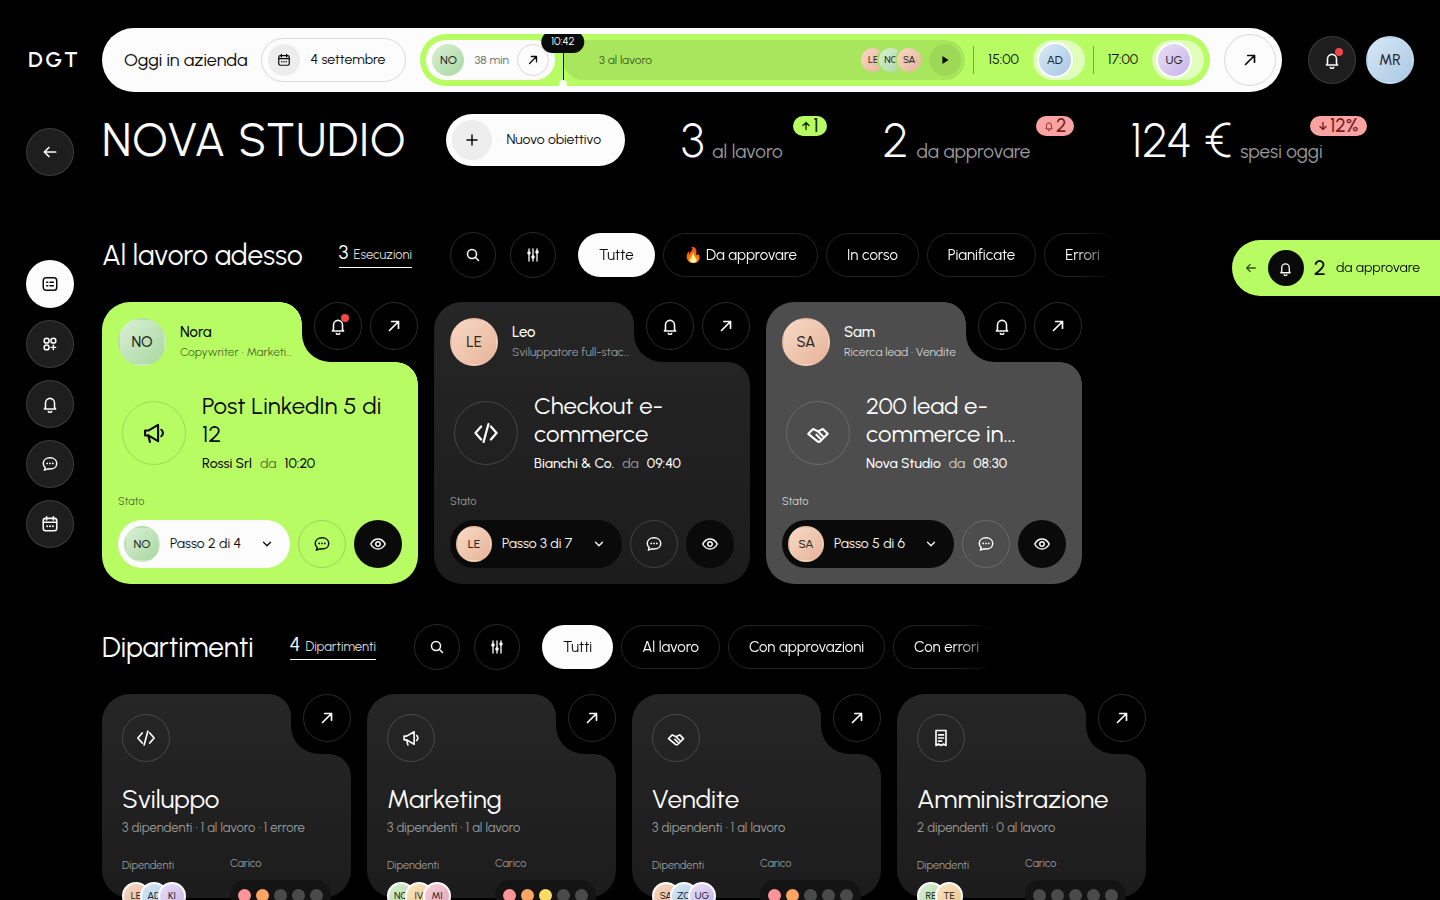
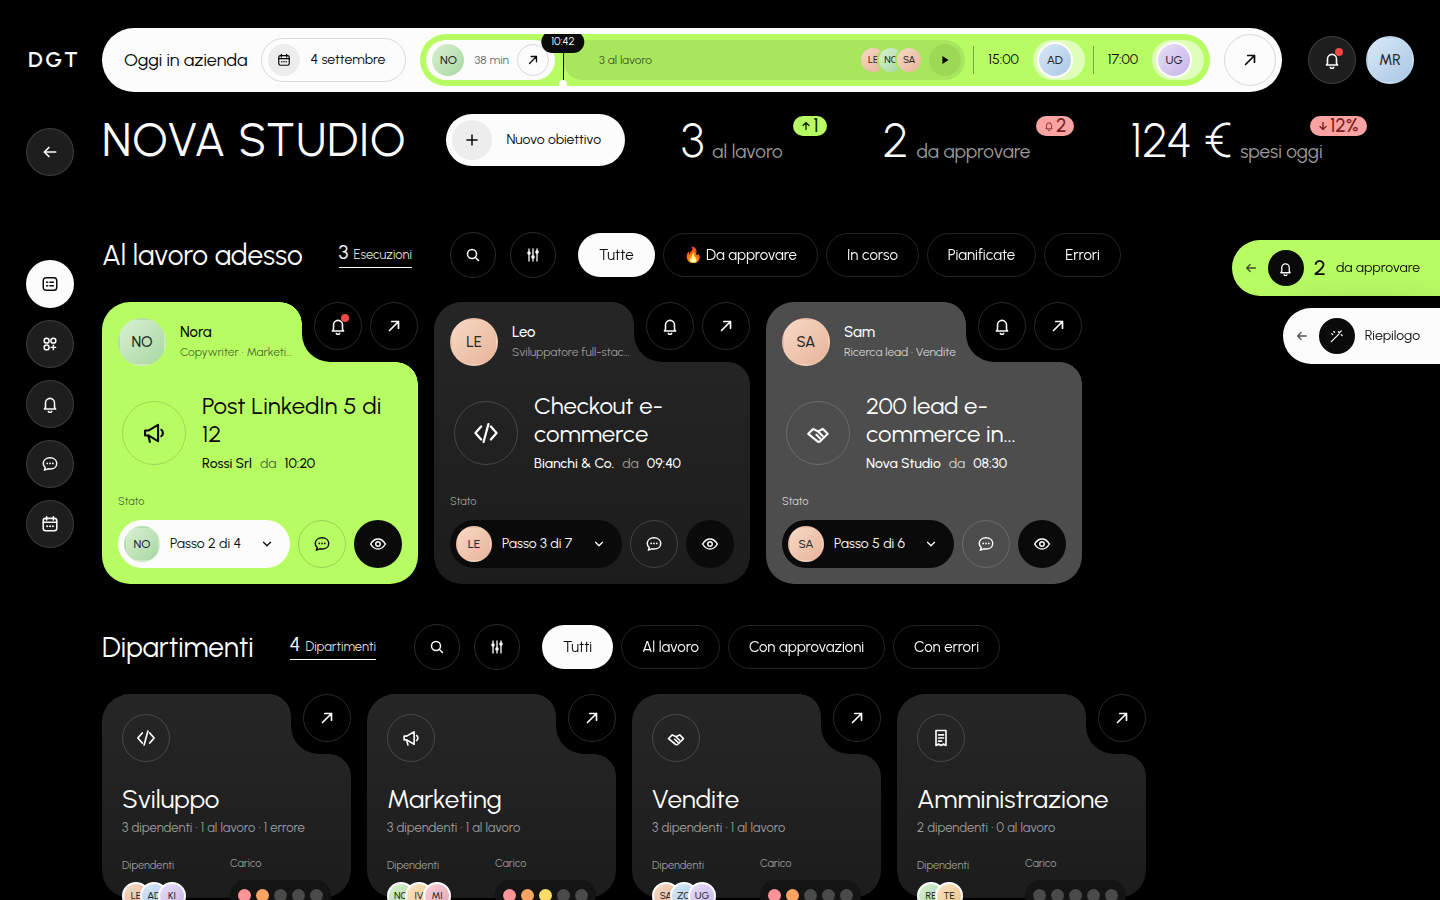
Direzione A: Riepilogo separato come unica modalità
Scelta dell'utente: il Riepilogo ha la sua pillola bianca e la sua tendina, la
tendina Da approvare mostra la richiesta corrente e la coda. Tolti l'opzione
«insieme» e il selettore di prova; screenshot rinominati e ricatturati; documenti
aggiornati (DIREZIONI.md, SYSTEM-DESIGN.md, PROSSIMA-SESSIONE.md, README).

Claude-Session: https://claude.ai/code/session_01LQmfWTwFqjQ7WoqY35Yzt1

Changed region(s): [[0.875, 0.3422, 1.0, 0.4044]]

diff --git a/schermate/direzioni/direzione-a.js b/schermate/direzioni/direzione-a.js
@@ -6,15 +6,16 @@
    Versione 2 (2026-09-04): titolo con la O normale, logo = DGT, tendina del
    titolare flottante a tre stati (chiusa / aperta / estesa), home a tutta
    larghezza, pagina Richieste.
-   Versione 3 (stessa data): opzione «Riepilogo separato» (due pillole e due
-   tendine, da confrontare con «insieme»); pagina Richieste completa: filtri
-   per stato, tipo, periodo, cliente e dipendente, storico per giorno,
-   approva/rifiuta anche in blocco, regole di approvazione.
+   Versione 3 (stessa data): Riepilogo separato (scelta dell'utente): due
+   pillole e due tendine, «Da approvare» con la coda e «Riepilogo di oggi»;
+   pagina Richieste completa: filtri per stato, tipo, periodo, cliente e
+   dipendente, storico per giorno, approva/rifiuta anche in blocco, regole di
+   approvazione.
 
    API: DIREZIONE_A.render(m, opz) → HTML; DIREZIONE_A.monta(radice, m, opz)
    disegna e collega i clic. opz = { pagina: 'home'|'richieste',
    tendina: 'chiusa'|'aperta'|'estesa', richiesta: indice,
-   riepilogo: 'insieme'|'separato', pannello: 'richieste'|'riepilogo' }.
+   pannello: 'richieste'|'riepilogo' }.
    ===================================================================== */
 window.DIREZIONE_A = (function () {
   const { ic, esc, prefissa, iconaDip } = window.DGT_UI;
@@ -370,11 +371,10 @@ window.DIREZIONE_A = (function () {
   }
 
   /* ---------- tendina del titolare ---------- */
-  function riepilogo(m, conTitolo, conDiario) {
+  function riepilogo(m) {
     const oggi = m.richieste.filter(r => r.giorno === 0 && r.stato === 'approvata').length;
     const ultime = m.diario.slice(-3).reverse();
-    return `${conTitolo ? `<div class="sub"><span class="rb black">${ic('i-wand')}</span><h5>Riepilogo di oggi</h5><span class="rb olight">${ic('i-ne')}</span></div>` : ''}
-      <div class="dcard"><div class="nt"><span class="rb sm">${ic('i-down')}</span></div><h5>Consegne:</h5>
+    return `<div class="dcard"><div class="nt"><span class="rb sm">${ic('i-down')}</span></div><h5>Consegne:</h5>
         <div class="thumbs">
           <div class="thumb"><div class="pg"><i class="h"></i><i class="w1"></i><i class="w2"></i><i class="b"></i><i class="w3"></i><i class="w1"></i><i class="w4"></i><i class="b"></i><i class="w2"></i></div><span class="lb">Post 4 di 12</span></div>
           <div class="thumb"><div class="pg"><i class="h"></i><i class="b"></i><i class="w1"></i><i class="w3"></i><i class="w2"></i><i class="b"></i><i class="w1"></i><i class="w4"></i></div><span class="lb">Piano ottobre</span></div>
@@ -383,14 +383,13 @@ window.DIREZIONE_A = (function () {
         <div class="kv"><span>Spesa di oggi</span><b>${m.costoOggi} €</b></div>
       </div>
       <div class="dcard"><div class="nt"><span class="rb sm">${ic('i-pen')}</span></div><h5>Obiettivo del mese:</h5><p class="goal">${m.azienda.obiettivoMese}</p></div>
-      ${conDiario ? `<div class="dcard"><div class="nt"><span class="rb sm">${ic('i-ne')}</span></div><h5>Ultime voci del diario:</h5><div style="margin-top:10px">${ultime.map(x => `<div class="drow"><span>${esc(x.ora)}</span><div><b>${esc(m.byId[x.chi].nome)}</b> ${esc(x.testo)}</div></div>`).join('')}</div></div>` : ''}`;
+      <div class="dcard"><div class="nt"><span class="rb sm">${ic('i-ne')}</span></div><h5>Ultime voci del diario:</h5><div style="margin-top:10px">${ultime.map(x => `<div class="drow"><span>${esc(x.ora)}</span><div><b>${esc(m.byId[x.chi].nome)}</b> ${esc(x.testo)}</div></div>`).join('')}</div></div>`;
   }
   const pager = (m, idx, n) => `<span class="pager"><span class="rb olight" data-az="prec">${ic('i-left')}</span>${idx + 1} di ${n}<span class="rb olight" data-az="succ">${ic('i-right')}</span></span>`;
   function tendinaChiusa(m, opz) {
     const n = m.richiesteDi('attesa').length;
-    const pr = `<div class="a-mini" data-az="apri" data-pannello="richieste" role="button" aria-label="Apri le richieste da approvare">${ic('i-left', 'ch')}<span class="rb">${ic('i-bell')}</span><b>${n}</b><span>da approvare</span></div>`;
-    if (opz.riepilogo !== 'separato') return pr;
-    return pr + `<div class="a-mini rie" data-az="apri" data-pannello="riepilogo" role="button" aria-label="Apri il riepilogo">${ic('i-left', 'ch')}<span class="rb">${ic('i-wand')}</span><span>Riepilogo</span></div>`;
+    return `<div class="a-mini" data-az="apri" data-pannello="richieste" role="button" aria-label="Apri le richieste da approvare">${ic('i-left', 'ch')}<span class="rb">${ic('i-bell')}</span><b>${n}</b><span>da approvare</span></div>`
+      + `<div class="a-mini rie" data-az="apri" data-pannello="riepilogo" role="button" aria-label="Apri il riepilogo">${ic('i-left', 'ch')}<span class="rb">${ic('i-wand')}</span><span>Riepilogo</span></div>`;
   }
   function cardRichiestaCorrente(m, r, idx, n) {
     const chi = m.byId[r.chi];
@@ -405,20 +404,19 @@ window.DIREZIONE_A = (function () {
     const att = inAttesa(m);
     const idx = Math.min(opz.richiesta || 0, Math.max(0, att.length - 1));
     const r = att[idx];
-    const sep = opz.riepilogo === 'separato';
-    if (sep && opz.pannello === 'riepilogo') {
+    if (opz.pannello === 'riepilogo') {
       return `<div class="a-tend aperta" role="dialog" aria-label="Riepilogo di oggi">
         <div class="th"><span class="rb black">${ic('i-wand')}</span><h4>Riepilogo di oggi</h4><span class="rb olight sm" data-az="chiudi" title="Chiudi">${ic('i-right')}</span></div>
-        <div class="tb">${riepilogo(m, false, true)}<div class="qrow on" data-az="pannello" data-pannello="richieste"><span class="av xs" style="background:var(--ink);color:var(--white)">${ic('i-bell')}</span><div class="tx"><b>Da approvare</b><span>${att.length} richieste in attesa</span></div><span class="rb xs">${ic('i-chevr')}</span></div></div>
+        <div class="tb">${riepilogo(m)}<div class="qrow on" data-az="pannello" data-pannello="richieste"><span class="av xs" style="background:var(--ink);color:var(--white)">${ic('i-bell')}</span><div class="tx"><b>Da approvare</b><span>${att.length} richieste in attesa</span></div><span class="rb xs">${ic('i-chevr')}</span></div></div>
       </div>`;
     }
-    const coda = sep && att.length > 1 ? `<div class="sub"><h5>In coda</h5><span class="chip light">${att.length}</span></div>` + att.map((x, i) => { const c = m.byId[x.chi]; return `<div class="qrow${i === idx ? ' on' : ''}" data-az="vai" data-idx="${i}">${av(m, c, 'xs')}<div class="tx"><b>${esc(x.cosa)}</b><span>${esc(c.nome)} · ${esc(x.cliente)} · ${esc(x.ora)}</span></div><span class="rb xs">${ic('i-chevr')}</span></div>`; }).join('') : '';
+    const coda = att.length > 1 ? `<div class="sub"><h5>In coda</h5><span class="chip light">${att.length}</span></div>` + att.map((x, i) => { const c = m.byId[x.chi]; return `<div class="qrow${i === idx ? ' on' : ''}" data-az="vai" data-idx="${i}">${av(m, c, 'xs')}<div class="tx"><b>${esc(x.cosa)}</b><span>${esc(c.nome)} · ${esc(x.cliente)} · ${esc(x.ora)}</span></div><span class="rb xs">${ic('i-chevr')}</span></div>`; }).join('') : '';
     return `<div class="a-tend aperta" role="dialog" aria-label="Da approvare">
       <div class="th"><h4>Da approvare</h4><span class="chip lime">${att.length}</span><span class="rb olight sm" data-az="espandi" title="Apri la richiesta">${ic('i-expand')}</span><span class="rb olight sm" data-az="chiudi" title="Chiudi">${ic('i-right')}</span></div>
       <div class="tb">
         ${r ? cardRichiestaCorrente(m, r, idx, att.length) : `<div class="vuoto" style="margin:0;border-color:rgb(0 0 0/.16)">Niente da approvare</div>`}
         ${coda}
-        ${sep ? `<div class="qrow" data-az="pannello" data-pannello="riepilogo" style="margin-top:6px"><span class="av xs" style="background:var(--ink);color:var(--white)">${ic('i-wand')}</span><div class="tx"><b>Riepilogo di oggi</b><span>consegne, spesa, obiettivo, diario</span></div><span class="rb xs">${ic('i-chevr')}</span></div>` : riepilogo(m, true)}
+        <div class="qrow" data-az="pannello" data-pannello="riepilogo" style="margin-top:6px"><span class="av xs" style="background:var(--ink);color:var(--white)">${ic('i-wand')}</span><div class="tx"><b>Riepilogo di oggi</b><span>consegne, spesa, obiettivo, diario</span></div><span class="rb xs">${ic('i-chevr')}</span></div>
       </div>
     </div>`;
   }
@@ -568,13 +566,13 @@ window.DIREZIONE_A = (function () {
   }
 
   function render(m, opz) {
-    opz = Object.assign({ pagina: 'home', tendina: 'aperta', richiesta: 0, riepilogo: 'insieme', pannello: 'richieste', filtri: {}, ordine: 'vecchie' }, opz || {});
+    opz = Object.assign({ pagina: 'home', tendina: 'aperta', richiesta: 0, pannello: 'richieste', filtri: {}, ordine: 'vecchie' }, opz || {});
     return opz.pagina === 'richieste' ? richieste(m, opz) : home(m, opz);
   }
 
   /* Disegna e collega i clic: tendina, cambio pagina, filtri, decisioni. Ritorna lo stato. */
   function monta(radice, m, opz) {
-    const st = Object.assign({ pagina: 'home', tendina: 'aperta', richiesta: 0, riepilogo: 'insieme', pannello: 'richieste', filtri: {}, ordine: 'vecchie' }, opz || {});
+    const st = Object.assign({ pagina: 'home', tendina: 'aperta', richiesta: 0, pannello: 'richieste', filtri: {}, ordine: 'vecchie' }, opz || {});
     const n = () => m.richiesteDi('attesa').length;
     const tutto = () => { const y = window.scrollY; radice.innerHTML = render(m, st); window.scrollTo(0, y); };
     const soloTendina = () => { const t = radice.querySelector('#a-tendina'); if (t) t.innerHTML = tendina(m, st); else tutto(); };

diff --git a/schermate/direzioni/direzione-a.html b/schermate/direzioni/direzione-a.html
@@ -5,10 +5,7 @@
 <meta name="viewport" content="width=1440">
 <title>Nova Studio Console</title>
 <link rel="stylesheet" href="https://fonts.googleapis.com/css2?family=Urbanist:wght@300;400;500;600&display=swap">
-<style>html,body{margin:0;background:#000}#root{transform-origin:0 0}
-#prova{position:fixed;left:16px;bottom:16px;z-index:60;display:flex;align-items:center;gap:6px;height:44px;padding:0 6px 0 16px;border-radius:9999px;background:#2C2C2C;color:#9A9A9A;font:400 13px/1 Urbanist,sans-serif;box-shadow:0 10px 30px rgb(0 0 0/.5)}
-#prova button{appearance:none;border:0;height:32px;padding:0 14px;border-radius:9999px;background:transparent;color:#FCFCFC;font:400 13px/1 Urbanist,sans-serif;cursor:pointer}
-#prova button.on{background:#FCFCFC;color:#0A0A0A}</style>
+<style>html,body{margin:0;background:#000}#root{transform-origin:0 0}</style>
 </head>
 <body>
 <div class="dirA" id="root"></div>
@@ -16,24 +13,15 @@
 <script src="dati.js"></script>
 <script src="direzione-a.js"></script>
 <script>
-  // Parametri: ?n=11|40  ?tendina=chiusa|aperta|estesa  ?pagina=home|richieste  ?richiesta=0
+  // Parametri: ?n=11|40  ?tendina=chiusa|aperta|estesa  ?pannello=richieste|riepilogo  ?pagina=home|richieste  ?richiesta=0
   const q = new URLSearchParams(location.search);
   DGT_UI.iconeInserisci();
   DGT_UI.stile('css-a', DIREZIONE_A.css);
   const root = document.getElementById('root');
   const modello = DGT_DATI.modello(DGT_DATI.nDaUrl());
-  const stato = DIREZIONE_A.monta(root, modello, {
+  DIREZIONE_A.monta(root, modello, {
     pagina: q.get('pagina') || 'home', tendina: q.get('tendina') || 'aperta', richiesta: +(q.get('richiesta') || 0),
-    riepilogo: q.get('riepilogo') || 'insieme', pannello: q.get('pannello') || 'richieste' });
-  // Controllo di prova (fuori dal prodotto): Riepilogo insieme alla tendina delle richieste o separato. ?controlli=0 lo nasconde.
-  if (q.get('controlli') !== '0') {
-    const c = document.createElement('div'); c.id = 'prova';
-    c.innerHTML = '<span>Prova · Riepilogo</span><button type="button" data-r="insieme">insieme</button><button type="button" data-r="separato">separato</button>';
-    document.body.appendChild(c);
-    const agg = () => c.querySelectorAll('button').forEach(b => b.classList.toggle('on', b.dataset.r === stato.riepilogo));
-    c.addEventListener('click', e => { const b = e.target.closest('button'); if (!b) return; stato.riepilogo = b.dataset.r; stato.tendina = 'chiusa'; root.innerHTML = DIREZIONE_A.render(modello, stato); agg(); });
-    agg();
-  }
+    pannello: q.get('pannello') || 'richieste' });
   // Sotto i 1440 px la console si riduce in scala (la larghezza di progetto resta 1440).
   function scala() { const s = Math.min(1, document.documentElement.clientWidth / 1440); root.style.transform = s < 1 ? 'scale(' + s + ')' : ''; document.body.style.height = s < 1 ? (root.offsetHeight * s) + 'px' : ''; }
   window.addEventListener('resize', scala); new MutationObserver(scala).observe(root, { childList: true, subtree: true }); scala();

diff --git a/schermate/direzioni/DIREZIONI.md b/schermate/direzioni/DIREZIONI.md
@@ -153,12 +153,15 @@ direzione. Regole che valgono da qui in avanti:
    dipartimento. È l'unica idea che si porta da B; da C non si porta niente.
 4. **Un solo accento**: lime = attenzione del titolare (al lavoro, da approvare). Rosa `#F9A3A3` solo per errori e cali.
 5. **Testi corti**: titoli di attività entro due righe a 24 px, ruoli entro una riga a 13 px, pillole su una riga.
-6. **Il pannello del titolare è una tendina flottante** (richiesta dell'utente, 2026-09-04), sopra tutto, così la
-   home prende tutta la larghezza. Tre stati: **chiusa** (una pillola lime al bordo destro con campanella e numero
-   delle richieste; un clic la riapre), **aperta** (330 px: la richiesta corrente con apri, commenta, approva,
-   rifiuta e le frecce per scorrere; sotto, il Riepilogo di oggi), **estesa** (840 px: la richiesta per intero,
-   contenuto a sinistra, chi la propone, passi, costo e nota a destra, azioni in fondo e il collegamento a «Tutte le
-   richieste»). Si chiude con la freccia verso destra.
+6. **Il pannello del titolare sono due tendine flottanti** (richieste dell'utente, 2026-09-04), sopra tutto, così
+   la home prende tutta la larghezza. Da chiuse restano **due pillole** al bordo destro: lime «campanella · 2 · da
+   approvare» e bianca «bacchetta · Riepilogo». La tendina **Da approvare** (330 px) mostra la richiesta corrente
+   con apri, commenta, approva, rifiuta e le frecce, sotto la **coda** delle altre in attesa e in fondo la riga che
+   porta al Riepilogo; **estesa** (840 px) mostra la richiesta per intero: contenuto a sinistra, chi la propone,
+   passi, costo e nota a destra, azioni in fondo e il collegamento a «Tutte le richieste». La tendina **Riepilogo
+   di oggi** mostra consegne, spesa, obiettivo del mese e le ultime voci del diario, con in fondo la riga lime
+   che riporta alle richieste. Entrambe si chiudono con la freccia verso destra e sono aperte all'apertura della
+   home se c'è qualcosa da approvare.
 7. **Logo e titolo**: il logo del prodotto è l'acronimo **DGT** (Urbanist 600, 22 px, spaziatura .12em) in alto a
    sinistra; il titolo dell'azienda è in maiuscolo con la O normale (niente marchio al posto della O).
 8. **Pagina Richieste**: tutte le richieste dell'azienda, nella stessa cornice della home (barra in alto, titolo
@@ -173,7 +176,8 @@ Dopo la scelta l'utente ha chiesto: O normale nel titolo, logo = acronimo DGT, p
 (chiudibile verso destra, con icona e conteggio quando è chiuso, richiesta mostrata per intero quando si espande) e
 una pagina per le sole richieste dell'azienda. Tutto è in `direzione-a.js` (funzioni `tendinaChiusa`,
 `tendinaAperta`, `tendinaEstesa`, `richieste`) ed è cliccabile: `DIREZIONE_A.monta(radice, modello, opzioni)`.
-Parametri di `direzione-a.html`: `?n=11|40`, `?tendina=chiusa|aperta|estesa`, `?pagina=home|richieste`, `?richiesta=0`.
+Parametri di `direzione-a.html`: `?n=11|40`, `?tendina=chiusa|aperta|estesa`, `?pannello=richieste|riepilogo`,
+`?pagina=home|richieste`, `?richiesta=0`.
 Screenshot: `screenshot/a-tendina-chiusa.png`, `a-tendina-aperta.png`, `a-tendina-estesa.png`, `a-richieste.png`.
 Artefatto interattivo: https://claude.ai/code/artifact/93d18853-06f7-4e68-a903-fdc9b97eb37c
 
@@ -181,13 +185,12 @@ Artefatto interattivo: https://claude.ai/code/artifact/93d18853-06f7-4e68-a903-f
 
 Risposte alle tre richieste successive dell'utente.
 
-1. **Riepilogo separato, da confrontare** (`?riepilogo=separato`, oppure il selettore di prova in basso a
-   sinistra nella pagina). Da chiuso ci sono **due pillole** al bordo destro: lime «campanella · 2 · da approvare»
-   e bianca «bacchetta · Riepilogo». Ognuna apre la propria tendina: quella delle richieste mostra la richiesta
-   corrente e la **coda** (le altre in attesa, cliccabili); quella del Riepilogo mostra consegne, spesa, obiettivo e
-   le ultime voci del diario. In fondo a ciascuna una riga porta all'altra. Con `insieme` (predefinito finché
-   l'utente non decide) resta la tendina unica: richiesta corrente sopra, Riepilogo sotto.
-   Screenshot: `a-separato-chiusa.png`, `a-separato-richieste.png`, `a-separato-riepilogo.png`.
+1. **Riepilogo separato**: mostrate le due alternative («insieme»: una tendina con richiesta sopra e Riepilogo
+   sotto; «separato»: due pillole e due tendine). **L'utente ha scelto «separato»**; l'opzione «insieme» e il
+   selettore di prova sono stati tolti. Da chiuso ci sono due pillole al bordo destro; la tendina delle richieste
+   mostra la richiesta corrente e la **coda** (le altre in attesa, cliccabili); quella del Riepilogo mostra
+   consegne, spesa, obiettivo e le ultime voci del diario; in fondo a ciascuna una riga porta all'altra.
+   Screenshot: `a-tendina-chiusa.png`, `a-tendina-aperta.png`, `a-riepilogo.png`, `a-tendina-estesa.png`.
 2. **Tendina aperta all'apertura della home**: confermato.
 3. **Pagina Richieste completa** («pieno controllo»): barra dei filtri per **stato, tipo, periodo, cliente e
    dipendente** (pillole, funzionanti, con riepilogo «N di M richieste · filtri attivi · Azzera»); sezione *Da

diff --git a/SYSTEM-DESIGN.md b/SYSTEM-DESIGN.md
@@ -150,14 +150,14 @@ Le schermate successive nascono solo dentro questa direzione, con queste regole:
 3. Oltre sedici elementi ogni elenco ha una vista compatta a pillole (3 per riga) e il filtro predefinito è il dipartimento.
 4. Un solo accento: lime = attenzione del titolare (al lavoro, da approvare); rosa solo per errori e cali.
 5. Testi corti: titoli entro due righe a 24 px, ruoli in una riga a 13 px, pillole su una riga.
-6. Il pannello del titolare è una tendina flottante sopra tutto, con tre stati: chiusa (pillola lime al bordo destro
-   con campanella e numero delle richieste), aperta (richiesta corrente + Riepilogo), estesa (la richiesta per intero
-   con le azioni). Si chiude verso destra; la home prende tutta la larghezza.
+6. Il pannello del titolare sono due tendine flottanti sopra tutto: «Da approvare» (pillola lime con campanella e
+   numero; aperta mostra la richiesta corrente e la coda; estesa mostra la richiesta per intero con le azioni) e
+   «Riepilogo di oggi» (pillola bianca con bacchetta; consegne, spesa, obiettivo, diario). Si chiudono verso destra;
+   la home prende tutta la larghezza.
 7. Logo del prodotto = acronimo DGT in alto a sinistra; titolo dell'azienda in maiuscolo con la O normale.
 8. Pagina Richieste nella stessa cornice, con pieno controllo: filtri per stato, tipo, periodo, cliente e
    dipendente; Da approvare con ordinamento e «Approva tutte»; Storico per giorno a righe compatte; Regole di
-   approvazione. Il Riepilogo può stare nella stessa tendina delle richieste («insieme», predefinito) o in una
-   seconda tendina con la sua pillola («separato»): decisione dell'utente in sospeso.
+   approvazione.
 
 Mappa dei componenti sui concetti di DGT (barra agenda → esecuzioni del giorno, card attività → esecuzione, card lead →
 dipartimento e dipendente, videochiamata → approvazione, Riepilogo → consegne/spesa/obiettivo): tabella in

diff --git a/PROSSIMA-SESSIONE.md b/PROSSIMA-SESSIONE.md
@@ -33,6 +33,8 @@ Stato al 2026-09-04, fine della sessione che ha applicato il sistema di design a
    opzione `riepilogo=separato`, decisione dell'utente in sospeso; (2) tendina aperta all'apertura → confermata;
    (3) pagina Richieste completa con filtri per dipendente e cliente e storico, «pieno controllo» → fatta
    (filtri funzionanti, storico per giorno, approva tutte, regole di approvazione).
+9. **"Va bene separato"**: il Riepilogo ha la sua pillola e la sua tendina; l'opzione «insieme» e il selettore di
+   prova sono stati tolti dal codice.
 
 Vincolo che vale sempre: nessun logo, foto o marchio di terzi; contenuti sintetici di DGT; documenti in italiano.
 
@@ -41,9 +43,7 @@ Vincolo che vale sempre: nessun logo, foto o marchio di terzi; contenuti sinteti
 1. Leggere `CLAUDE.md`, `SYSTEM-DESIGN.md` (sezione 10) e `schermate/direzioni/DIREZIONI.md` (sezioni 1 e 4).
 2. Aprire `schermate/direzioni/direzione-a.html` (e `?n=40`): è la base di codice delle prossime schermate.
    Il modello dati è `dati.js`, le icone e le utilità sono in `comune.js`, i componenti in `direzione-a.js`.
-3. Prima cosa da fare: raccogliere la decisione dell'utente su Riepilogo «insieme» o «separato» (poi togliere
-   l'opzione scartata e il selettore di prova da `direzione-a.html`) e il riscontro sulla pagina Richieste
-   completa. Poi il **dipartimento** (Sviluppo: 3 dipendenti, esecuzioni, obiettivi, costi), dipendente,
+3. Prossima schermata: il **dipartimento** (Sviluppo: 3 dipendenti, esecuzioni, obiettivi, costi), dipendente,
    esecuzione, approvazioni da mobile, costi. Stessa cornice della Console: barra in alto, riga con titolo e numeri,
    rail, sezioni con intestazione e pillole, tendina del titolare.
 

diff --git a/schermate/direzioni/README.md b/schermate/direzioni/README.md
@@ -7,8 +7,7 @@ prova di scala a 40, direzione scelta: **A · Console**. Lo studio e la decision
   https://claude.ai/code/artifact/e7334087-3fc8-4ec9-86f7-bd9fa387bd8f
 - Schermate singole: `direzione-a.html`, `direzione-b.html`, `direzione-c.html`; con `?n=40` la prova di scala.
 - La direzione A è cliccabile (tendina del titolare a tre stati, pagina Richieste). Parametri:
-  `?tendina=chiusa|aperta|estesa`, `?pagina=home|richieste`, `?richiesta=0`, `?riepilogo=insieme|separato`,
-  `?pannello=richieste|riepilogo`, `?controlli=0` (nasconde il selettore di prova). Artefatto:
+  `?tendina=chiusa|aperta|estesa`, `?pannello=richieste|riepilogo`, `?pagina=home|richieste`, `?richiesta=0`. Artefatto:
   https://claude.ai/code/artifact/93d18853-06f7-4e68-a903-fdc9b97eb37c
 - File unico per l'artefatto: `node build-unico.js /percorso/confronto-unico.html`.
 - Screenshot: `LOCAL_FONT_CSS=/tmp/fonts.css node ../../design-system/tools/screenshot-page.js "direzione-a.html?n=40" out.png`.
